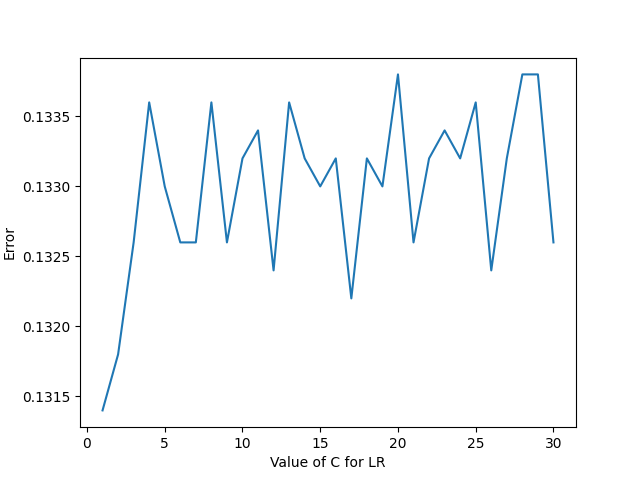
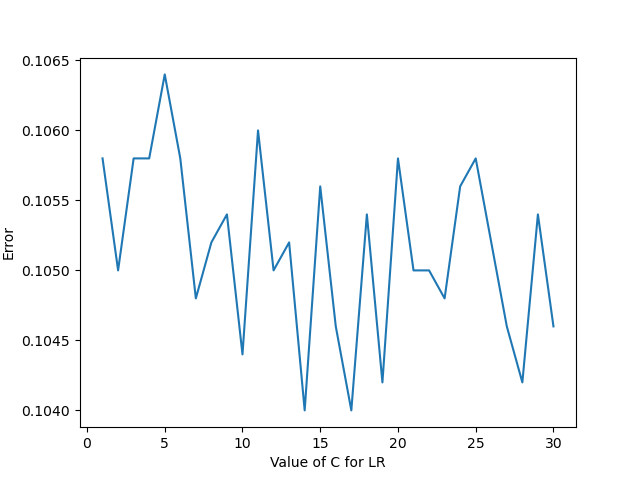
change l2 to l1

diff --git a/LR_parameters.py b/LR_parameters.py
@@ -13,7 +13,7 @@ C_error = []
 
 # Cross Verification
 for c in c_range:
-    lr = LogisticRegression(C=c, penalty='l2', solver='saga',tol=1e-2, multi_class='multinomial', max_iter = 100, n_jobs=-1)
+    lr = LogisticRegression(C=c, penalty='l1', solver='saga', tol=1e-2, multi_class='multinomial', max_iter=100, n_jobs=-1)
     # 5:1 segment
     scores = cross_val_score(lr, X_train, y_train, cv=5, scoring='accuracy')
     C_error.append(1 - scores.mean())
